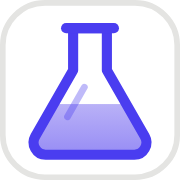
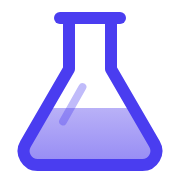
파비콘을 투명 배경 플라스크로 변경

diff --git a/case-a.html b/case-a.html
@@ -6,9 +6,9 @@
 <meta name="robots" content="noindex, nofollow">
 <title>포트폴리오 구병기</title>
 <meta name="description" content="구병기 포트폴리오 - 이시스코스메틱 CRM/그로스 마케터 지원">
-<link rel="icon" type="image/svg+xml" href="assets/img/favicon.svg">
-<link rel="icon" type="image/png" sizes="32x32" href="assets/img/favicon-32.png">
-<link rel="apple-touch-icon" href="assets/img/apple-touch-icon.png">
+<link rel="icon" type="image/svg+xml" href="assets/img/favicon.svg?v=2">
+<link rel="icon" type="image/png" sizes="32x32" href="assets/img/favicon-32.png?v=2">
+<link rel="apple-touch-icon" href="assets/img/apple-touch-icon.png?v=2">
 <link rel="preconnect" href="https://cdn.jsdelivr.net">
 <link rel="stylesheet" href="https://cdn.jsdelivr.net/gh/orioncactus/pretendard@v1.3.9/dist/web/variable/pretendardvariable-dynamic-subset.min.css">
 <link rel="stylesheet" href="assets/css/v5.css?v=20261020q">

diff --git a/case-b.html b/case-b.html
@@ -6,9 +6,9 @@
 <meta name="robots" content="noindex, nofollow">
 <title>포트폴리오 구병기</title>
 <meta name="description" content="구병기 포트폴리오 - 이시스코스메틱 CRM/그로스 마케터 지원">
-<link rel="icon" type="image/svg+xml" href="assets/img/favicon.svg">
-<link rel="icon" type="image/png" sizes="32x32" href="assets/img/favicon-32.png">
-<link rel="apple-touch-icon" href="assets/img/apple-touch-icon.png">
+<link rel="icon" type="image/svg+xml" href="assets/img/favicon.svg?v=2">
+<link rel="icon" type="image/png" sizes="32x32" href="assets/img/favicon-32.png?v=2">
+<link rel="apple-touch-icon" href="assets/img/apple-touch-icon.png?v=2">
 <link rel="preconnect" href="https://cdn.jsdelivr.net">
 <link rel="stylesheet" href="https://cdn.jsdelivr.net/gh/orioncactus/pretendard@v1.3.9/dist/web/variable/pretendardvariable-dynamic-subset.min.css">
 <link rel="stylesheet" href="assets/css/v5.css?v=20261020q">

diff --git a/case-c.html b/case-c.html
@@ -6,9 +6,9 @@
 <meta name="robots" content="noindex, nofollow">
 <title>포트폴리오 구병기</title>
 <meta name="description" content="구병기 포트폴리오 - 이시스코스메틱 CRM/그로스 마케터 지원">
-<link rel="icon" type="image/svg+xml" href="assets/img/favicon.svg">
-<link rel="icon" type="image/png" sizes="32x32" href="assets/img/favicon-32.png">
-<link rel="apple-touch-icon" href="assets/img/apple-touch-icon.png">
+<link rel="icon" type="image/svg+xml" href="assets/img/favicon.svg?v=2">
+<link rel="icon" type="image/png" sizes="32x32" href="assets/img/favicon-32.png?v=2">
+<link rel="apple-touch-icon" href="assets/img/apple-touch-icon.png?v=2">
 <link rel="preconnect" href="https://cdn.jsdelivr.net">
 <link rel="stylesheet" href="https://cdn.jsdelivr.net/gh/orioncactus/pretendard@v1.3.9/dist/web/variable/pretendardvariable-dynamic-subset.min.css">
 <link rel="stylesheet" href="assets/css/v5.css?v=20261020q">

diff --git a/case-d.html b/case-d.html
@@ -6,9 +6,9 @@
 <meta name="robots" content="noindex, nofollow">
 <title>포트폴리오 구병기</title>
 <meta name="description" content="구병기 포트폴리오 - 이시스코스메틱 CRM/그로스 마케터 지원">
-<link rel="icon" type="image/svg+xml" href="assets/img/favicon.svg">
-<link rel="icon" type="image/png" sizes="32x32" href="assets/img/favicon-32.png">
-<link rel="apple-touch-icon" href="assets/img/apple-touch-icon.png">
+<link rel="icon" type="image/svg+xml" href="assets/img/favicon.svg?v=2">
+<link rel="icon" type="image/png" sizes="32x32" href="assets/img/favicon-32.png?v=2">
+<link rel="apple-touch-icon" href="assets/img/apple-touch-icon.png?v=2">
 <link rel="preconnect" href="https://cdn.jsdelivr.net">
 <link rel="stylesheet" href="https://cdn.jsdelivr.net/gh/orioncactus/pretendard@v1.3.9/dist/web/variable/pretendardvariable-dynamic-subset.min.css">
 <link rel="stylesheet" href="assets/css/v5.css?v=20261020q">

diff --git a/case-e.html b/case-e.html
@@ -6,9 +6,9 @@
 <meta name="robots" content="noindex, nofollow">
 <title>포트폴리오 구병기</title>
 <meta name="description" content="구병기 포트폴리오 - 이시스코스메틱 CRM/그로스 마케터 지원">
-<link rel="icon" type="image/svg+xml" href="assets/img/favicon.svg">
-<link rel="icon" type="image/png" sizes="32x32" href="assets/img/favicon-32.png">
-<link rel="apple-touch-icon" href="assets/img/apple-touch-icon.png">
+<link rel="icon" type="image/svg+xml" href="assets/img/favicon.svg?v=2">
+<link rel="icon" type="image/png" sizes="32x32" href="assets/img/favicon-32.png?v=2">
+<link rel="apple-touch-icon" href="assets/img/apple-touch-icon.png?v=2">
 <link rel="preconnect" href="https://cdn.jsdelivr.net">
 <link rel="stylesheet" href="https://cdn.jsdelivr.net/gh/orioncactus/pretendard@v1.3.9/dist/web/variable/pretendardvariable-dynamic-subset.min.css">
 <link rel="stylesheet" href="assets/css/v5.css?v=20261020q">

diff --git a/case-f.html b/case-f.html
@@ -6,9 +6,9 @@
 <meta name="robots" content="noindex, nofollow">
 <title>포트폴리오 구병기</title>
 <meta name="description" content="구병기 포트폴리오 - 이시스코스메틱 CRM/그로스 마케터 지원">
-<link rel="icon" type="image/svg+xml" href="assets/img/favicon.svg">
-<link rel="icon" type="image/png" sizes="32x32" href="assets/img/favicon-32.png">
-<link rel="apple-touch-icon" href="assets/img/apple-touch-icon.png">
+<link rel="icon" type="image/svg+xml" href="assets/img/favicon.svg?v=2">
+<link rel="icon" type="image/png" sizes="32x32" href="assets/img/favicon-32.png?v=2">
+<link rel="apple-touch-icon" href="assets/img/apple-touch-icon.png?v=2">
 <link rel="preconnect" href="https://cdn.jsdelivr.net">
 <link rel="stylesheet" href="https://cdn.jsdelivr.net/gh/orioncactus/pretendard@v1.3.9/dist/web/variable/pretendardvariable-dynamic-subset.min.css">
 <link rel="stylesheet" href="assets/css/v5.css?v=20261020q">

diff --git a/case-g.html b/case-g.html
@@ -6,9 +6,9 @@
 <meta name="robots" content="noindex, nofollow">
 <title>포트폴리오 구병기</title>
 <meta name="description" content="구병기 포트폴리오 - 이시스코스메틱 CRM/그로스 마케터 지원">
-<link rel="icon" type="image/svg+xml" href="assets/img/favicon.svg">
-<link rel="icon" type="image/png" sizes="32x32" href="assets/img/favicon-32.png">
-<link rel="apple-touch-icon" href="assets/img/apple-touch-icon.png">
+<link rel="icon" type="image/svg+xml" href="assets/img/favicon.svg?v=2">
+<link rel="icon" type="image/png" sizes="32x32" href="assets/img/favicon-32.png?v=2">
+<link rel="apple-touch-icon" href="assets/img/apple-touch-icon.png?v=2">
 <link rel="preconnect" href="https://cdn.jsdelivr.net">
 <link rel="stylesheet" href="https://cdn.jsdelivr.net/gh/orioncactus/pretendard@v1.3.9/dist/web/variable/pretendardvariable-dynamic-subset.min.css">
 <link rel="stylesheet" href="assets/css/v5.css?v=20261020q">

diff --git a/case-now.html b/case-now.html
@@ -6,9 +6,9 @@
 <meta name="robots" content="noindex, nofollow">
 <title>포트폴리오 구병기</title>
 <meta name="description" content="구병기 포트폴리오 - 이시스코스메틱 CRM/그로스 마케터 지원">
-<link rel="icon" type="image/svg+xml" href="assets/img/favicon.svg">
-<link rel="icon" type="image/png" sizes="32x32" href="assets/img/favicon-32.png">
-<link rel="apple-touch-icon" href="assets/img/apple-touch-icon.png">
+<link rel="icon" type="image/svg+xml" href="assets/img/favicon.svg?v=2">
+<link rel="icon" type="image/png" sizes="32x32" href="assets/img/favicon-32.png?v=2">
+<link rel="apple-touch-icon" href="assets/img/apple-touch-icon.png?v=2">
 <link rel="preconnect" href="https://cdn.jsdelivr.net">
 <link rel="stylesheet" href="https://cdn.jsdelivr.net/gh/orioncactus/pretendard@v1.3.9/dist/web/variable/pretendardvariable-dynamic-subset.min.css">
 <link rel="stylesheet" href="assets/css/v5.css?v=20261020q">

diff --git a/deck.html b/deck.html
@@ -6,9 +6,9 @@
 <meta name="robots" content="noindex, nofollow">
 <title>포트폴리오 구병기</title>
 <meta name="description" content="구병기 포트폴리오 - 이시스코스메틱 CRM/그로스 마케터 지원">
-<link rel="icon" type="image/svg+xml" href="assets/img/favicon.svg">
-<link rel="icon" type="image/png" sizes="32x32" href="assets/img/favicon-32.png">
-<link rel="apple-touch-icon" href="assets/img/apple-touch-icon.png">
+<link rel="icon" type="image/svg+xml" href="assets/img/favicon.svg?v=2">
+<link rel="icon" type="image/png" sizes="32x32" href="assets/img/favicon-32.png?v=2">
+<link rel="apple-touch-icon" href="assets/img/apple-touch-icon.png?v=2">
 <link rel="preconnect" href="https://cdn.jsdelivr.net">
 <link rel="stylesheet" href="https://cdn.jsdelivr.net/gh/orioncactus/pretendard@v1.3.9/dist/web/variable/pretendardvariable-dynamic-subset.min.css">
 <link rel="stylesheet" href="assets/css/v5.css?v=20261020q">

diff --git a/index.html b/index.html
@@ -6,9 +6,9 @@
 <meta name="robots" content="noindex, nofollow">
 <title>포트폴리오 구병기</title>
 <meta name="description" content="구병기 포트폴리오 - 이시스코스메틱 CRM/그로스 마케터 지원">
-<link rel="icon" type="image/svg+xml" href="assets/img/favicon.svg">
-<link rel="icon" type="image/png" sizes="32x32" href="assets/img/favicon-32.png">
-<link rel="apple-touch-icon" href="assets/img/apple-touch-icon.png">
+<link rel="icon" type="image/svg+xml" href="assets/img/favicon.svg?v=2">
+<link rel="icon" type="image/png" sizes="32x32" href="assets/img/favicon-32.png?v=2">
+<link rel="apple-touch-icon" href="assets/img/apple-touch-icon.png?v=2">
 <link rel="preconnect" href="https://cdn.jsdelivr.net">
 <link rel="stylesheet" href="https://cdn.jsdelivr.net/gh/orioncactus/pretendard@v1.3.9/dist/web/variable/pretendardvariable-dynamic-subset.min.css">
 <link rel="stylesheet" href="assets/css/v5.css?v=20261020q">
